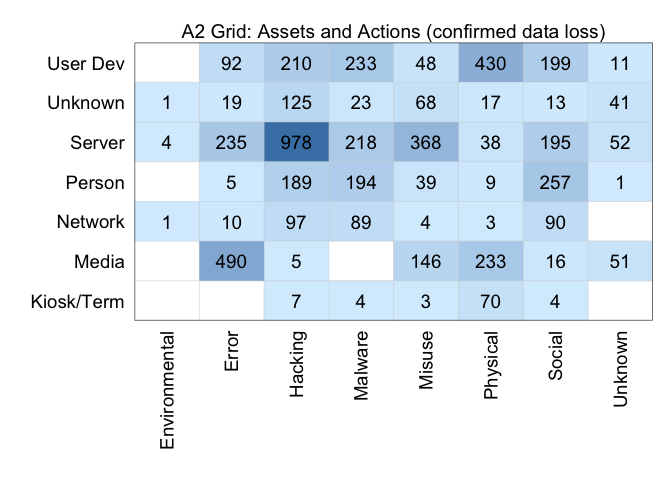
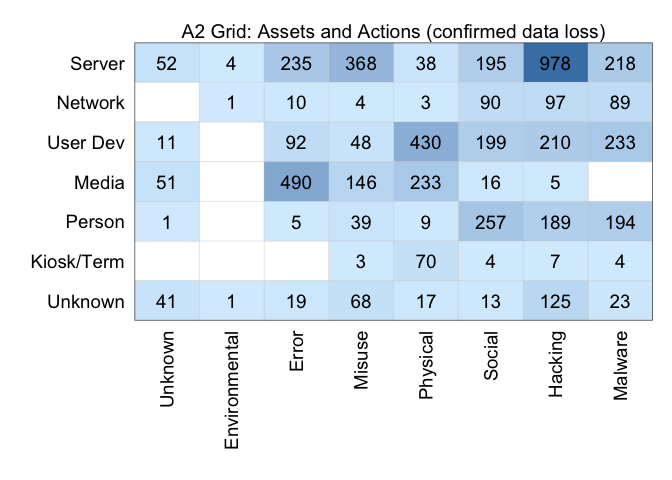
getenum* now sorts the a4 variables in ordered factors.

diff --git a/README.md b/README.md
@@ -22,10 +22,6 @@ vcdb.dir <- "../VCDB/data/json/"
 vcdb <- json2veris(vcdb.dir)
 ```
 
-    ## Parsing record 1000 of 3527 
-    ## Parsing record 2000 of 3527 
-    ## Parsing record 3000 of 3527
-
 What json2veris() returns is a plain data.table object, which enables you (the developer) to work directly with the data.
 
 ``` {.r}
@@ -175,71 +171,20 @@ One rather fun feature of the lastest version is the ability to query for an enu
 
 ``` {.r}
 a2 <- getenumby(vcdb, c("action", "asset.variety"))
-a2
+head(a2)
 ```
 
-    ##              enum      enum1   x    n      freq
-    ##  1:       Malware     Server 218 3527 0.0618089
-    ##  2:       Hacking     Server 978 3527 0.2772895
-    ##  3:        Social     Server 195 3527 0.0552878
-    ##  4:      Physical     Server  38 3527 0.0107740
-    ##  5:        Misuse     Server 368 3527 0.1043380
-    ##  6:         Error     Server 235 3527 0.0666289
-    ##  7: Environmental     Server   4 3527 0.0011341
-    ##  8:       Unknown     Server  52 3527 0.0147434
-    ##  9:       Malware    Network  89 3527 0.0252339
-    ## 10:       Hacking    Network  97 3527 0.0275021
-    ## 11:        Social    Network  90 3527 0.0255174
-    ## 12:      Physical    Network   3 3527 0.0008506
-    ## 13:        Misuse    Network   4 3527 0.0011341
-    ## 14:         Error    Network  10 3527 0.0028353
-    ## 15: Environmental    Network   1 3527 0.0002835
-    ## 16:       Unknown    Network   0 3527 0.0000000
-    ## 17:       Malware   User Dev 233 3527 0.0660618
-    ## 18:       Hacking   User Dev 210 3527 0.0595407
-    ## 19:        Social   User Dev 199 3527 0.0564219
-    ## 20:      Physical   User Dev 430 3527 0.1219166
-    ## 21:        Misuse   User Dev  48 3527 0.0136093
-    ## 22:         Error   User Dev  92 3527 0.0260845
-    ## 23: Environmental   User Dev   0 3527 0.0000000
-    ## 24:       Unknown   User Dev  11 3527 0.0031188
-    ## 25:       Malware      Media   0 3527 0.0000000
-    ## 26:       Hacking      Media   5 3527 0.0014176
-    ## 27:        Social      Media  16 3527 0.0045364
-    ## 28:      Physical      Media 233 3527 0.0660618
-    ## 29:        Misuse      Media 146 3527 0.0413950
-    ## 30:         Error      Media 490 3527 0.1389283
-    ## 31: Environmental      Media   0 3527 0.0000000
-    ## 32:       Unknown      Media  51 3527 0.0144599
-    ## 33:       Malware     Person 194 3527 0.0550043
-    ## 34:       Hacking     Person 189 3527 0.0535866
-    ## 35:        Social     Person 257 3527 0.0728665
-    ## 36:      Physical     Person   9 3527 0.0025517
-    ## 37:        Misuse     Person  39 3527 0.0110576
-    ## 38:         Error     Person   5 3527 0.0014176
-    ## 39: Environmental     Person   0 3527 0.0000000
-    ## 40:       Unknown     Person   1 3527 0.0002835
-    ## 41:       Malware Kiosk/Term   4 3527 0.0011341
-    ## 42:       Hacking Kiosk/Term   7 3527 0.0019847
-    ## 43:        Social Kiosk/Term   4 3527 0.0011341
-    ## 44:      Physical Kiosk/Term  70 3527 0.0198469
-    ## 45:        Misuse Kiosk/Term   3 3527 0.0008506
-    ## 46:         Error Kiosk/Term   0 3527 0.0000000
-    ## 47: Environmental Kiosk/Term   0 3527 0.0000000
-    ## 48:       Unknown Kiosk/Term   0 3527 0.0000000
-    ## 49:       Malware    Unknown  23 3527 0.0065211
-    ## 50:       Hacking    Unknown 125 3527 0.0354409
-    ## 51:        Social    Unknown  13 3527 0.0036859
-    ## 52:      Physical    Unknown  17 3527 0.0048200
-    ## 53:        Misuse    Unknown  68 3527 0.0192798
-    ## 54:         Error    Unknown  19 3527 0.0053870
-    ## 55: Environmental    Unknown   1 3527 0.0002835
-    ## 56:       Unknown    Unknown  41 3527 0.0116246
-    ##              enum      enum1   x    n      freq
+    ##        enum  enum1   x    n    freq
+    ## 1:  Malware Server 218 3527 0.06181
+    ## 2:  Hacking Server 978 3527 0.27729
+    ## 3:   Social Server 195 3527 0.05529
+    ## 4: Physical Server  38 3527 0.01077
+    ## 5:   Misuse Server 368 3527 0.10434
+    ## 6:    Error Server 235 3527 0.06663
 
 And we can now just visualize that with ggplot in a nice 2x2 grid
 
 ![plot of chunk a2grid](./README_files/figure-markdown_github/a2grid.png)
 
     ##    user  system elapsed 
-    ##  27.565   0.265  28.400
+    ##  27.256   0.249  28.036
